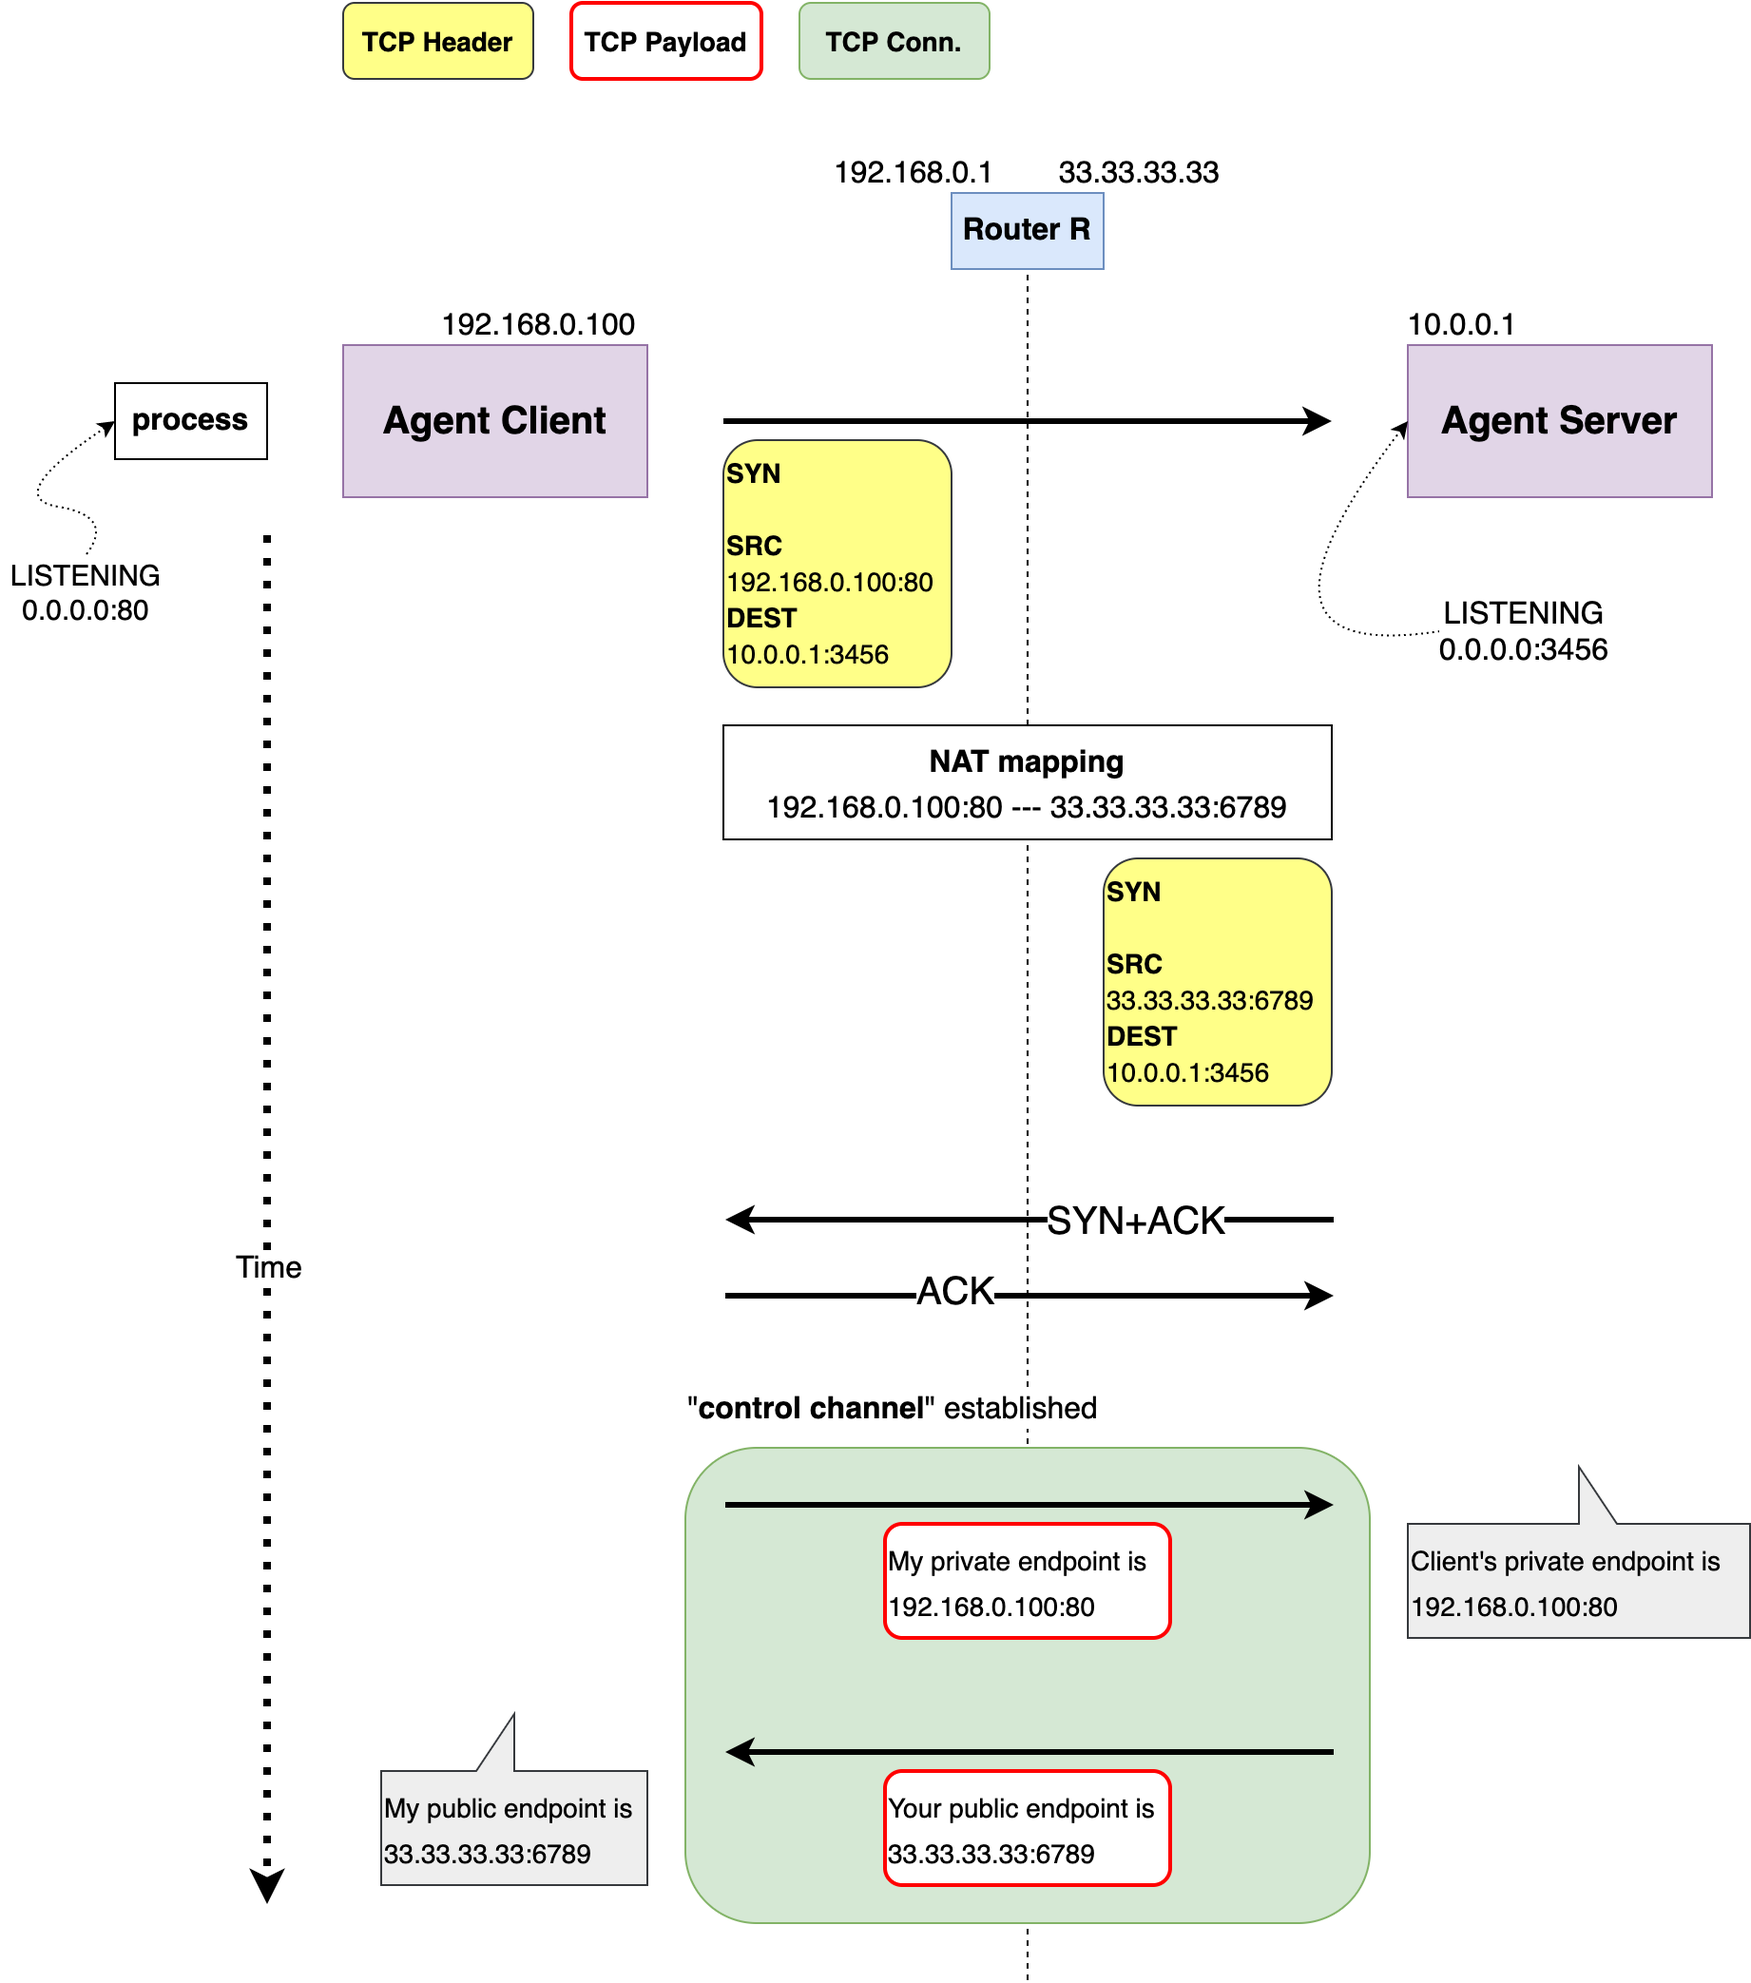
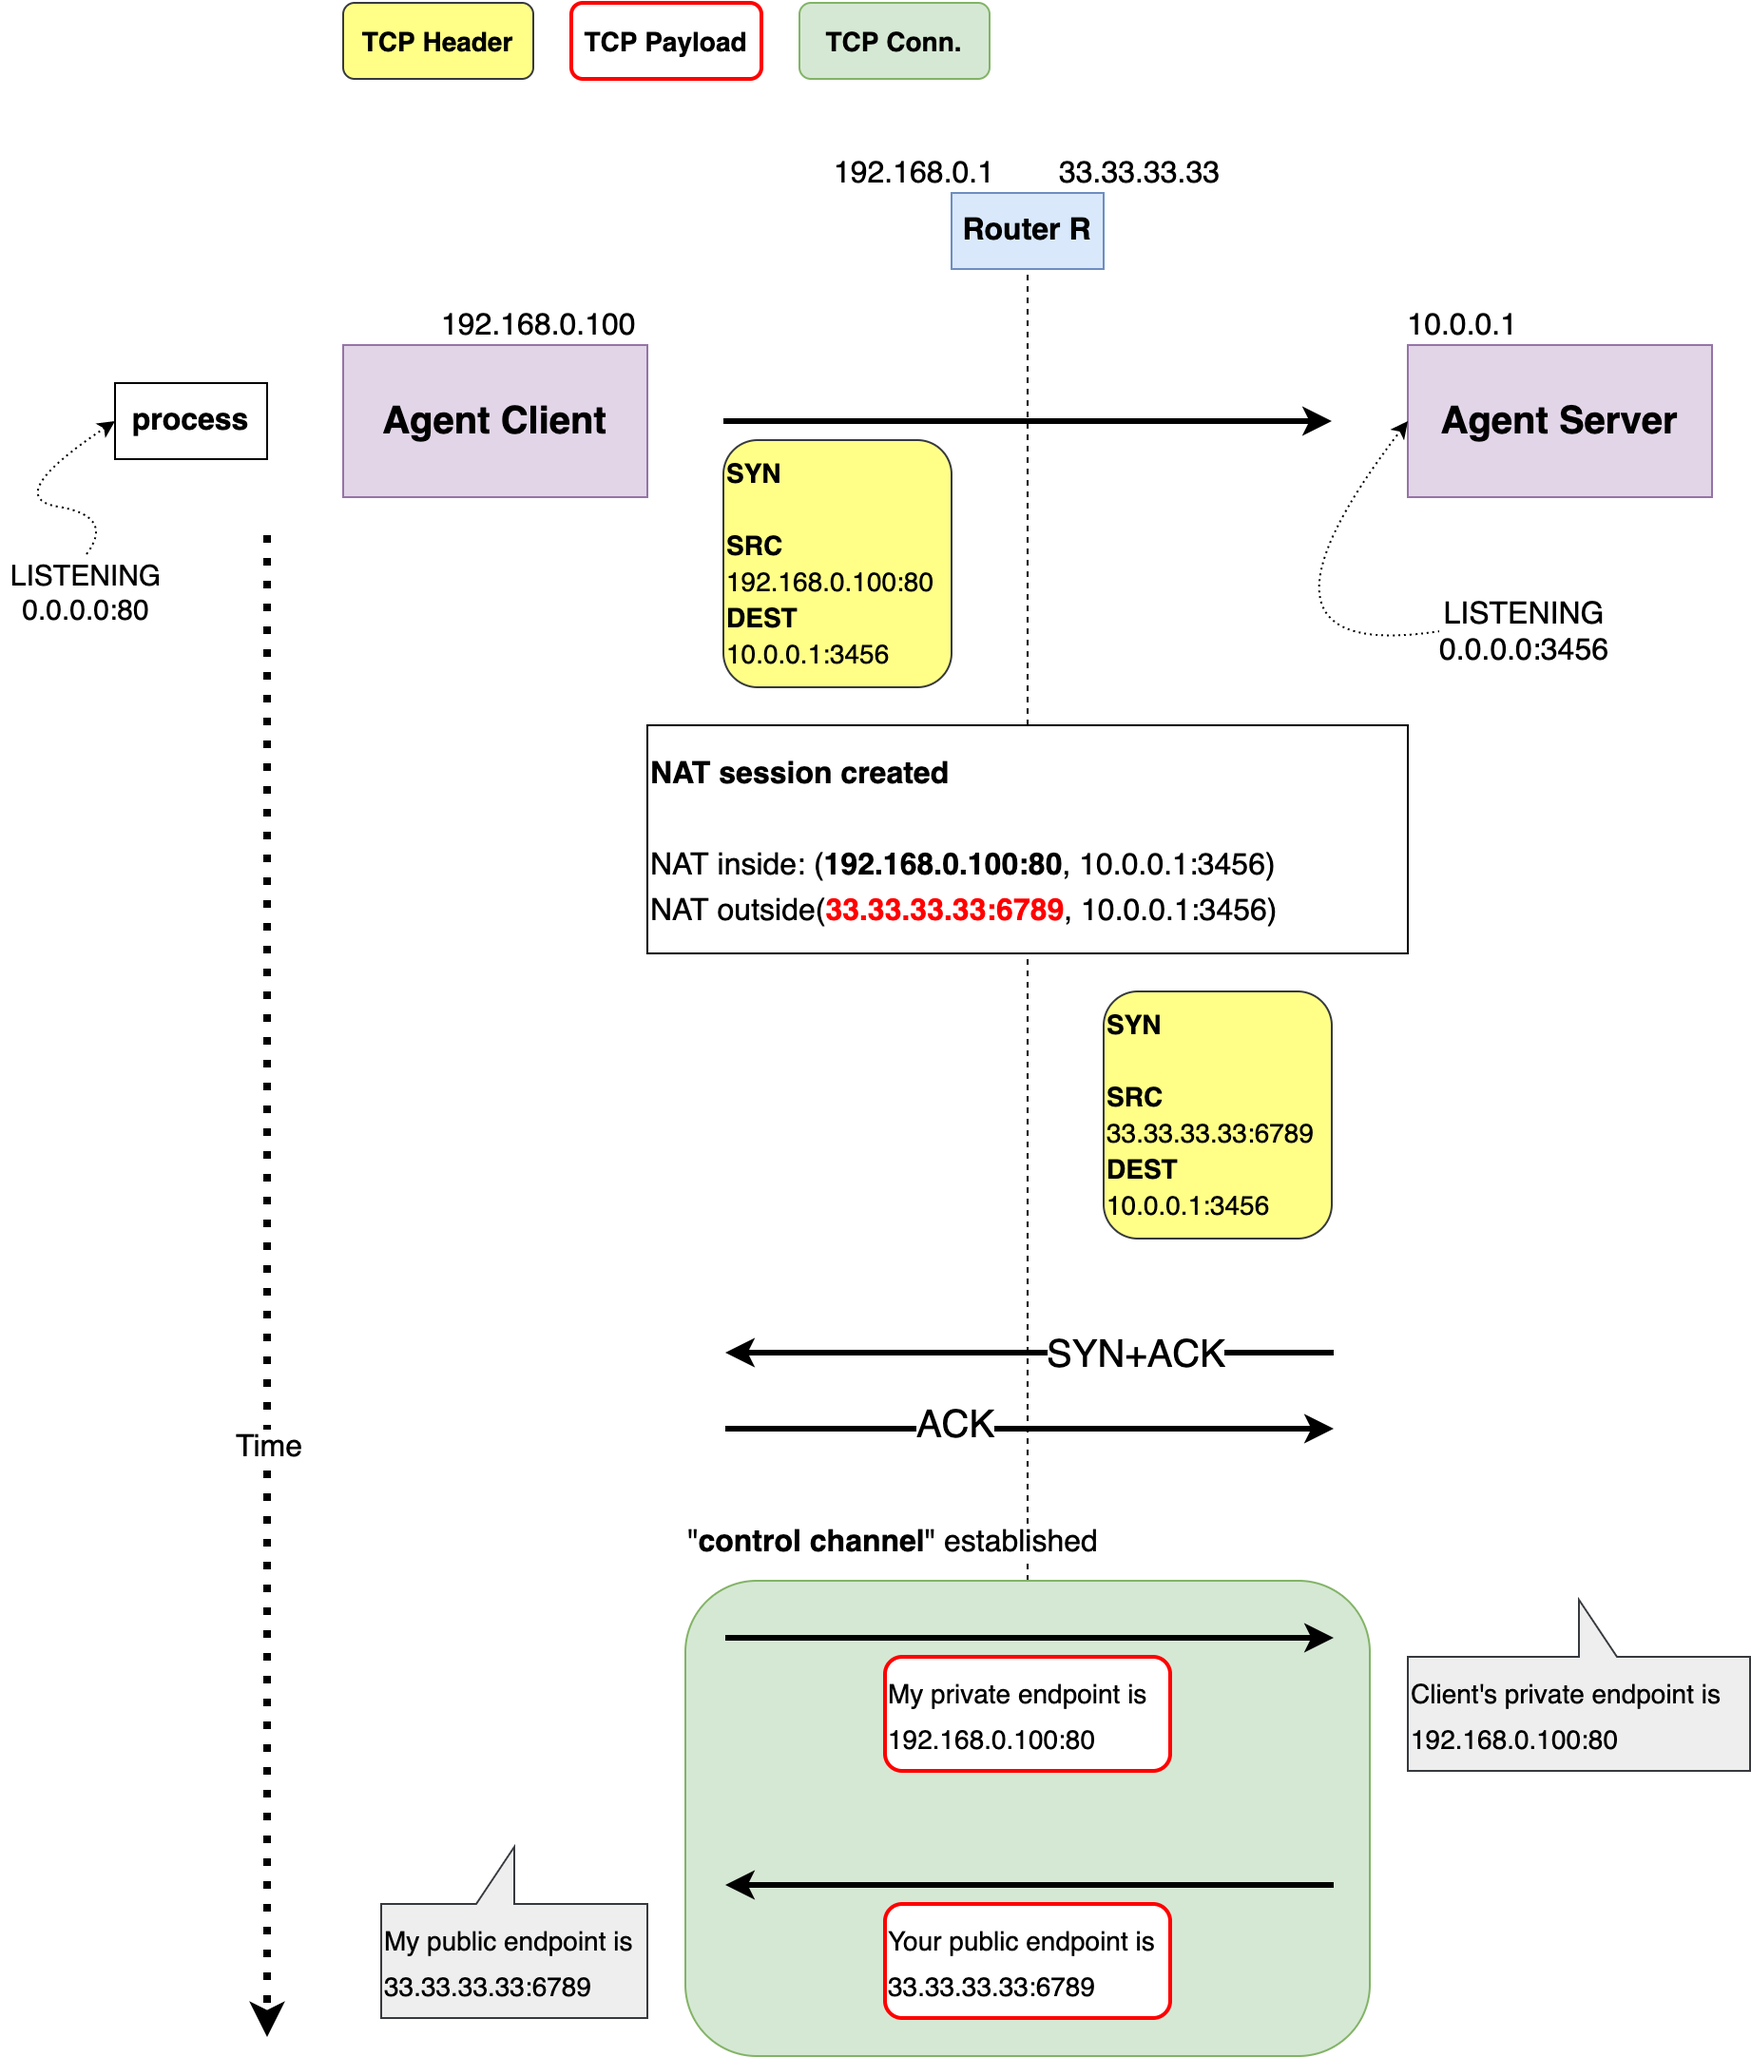
refinement, correction

diff --git a/docs/network-flow.md b/docs/network-flow.md
@@ -1,18 +1,29 @@
-# 네트워크 내부 흐름
-## 문제 상황
-<img src="./_images/given-situation.png" alt="given situation" width=600>
+> TCP Piercer가 네트워크와 어떻게 상호작용 하여 동작을 하는지 설명합니다.
 
-- Router R에서 동작하는 NAT/Firewall로 인해 Host A에서 외부 인터넷으로 (outbound) TCP request를 보낼 수 있지만
-그 반대 방향의 TCP Request는 차단됩니다.
-- 일반적인 라우터 설정입니다.
+# 예시 시나리오
+아래와 같은 네트워크 환경을 가정합니다.
+<img src="./_images/base-environment.png" alt="base network environment">
 
-## 목표 상태
-<img src="./_images/desired-result.png" alt="desired result" width=900>
+- Host A, Host B의 IP address 및 Router R의 internal/external IP address는 그림에 나온 대로 입니다.
+- Host A는 192.168.0.0/24 서브넷에 속합니다.
 
-- Agent Client와 Agent Server로 구성된 TCP Piercer는 외부 인터넷의 Host B가 보낸 inbound TCP request를 중개하여
-Host A의 프로세스와 Host B의 프로세스 간의 TCP connection을 수립시킵니다.
-- inbound TCP request로 수립된 TCP connection은 tunneling procotol을 수반하지 않습니다.
+여기에 TCP Piercer 시스템을 추가합니다.
+<img src="./_images/new-environment.png" alt="new environment involving TCP Piercer">
 
+- Agent Client는 Host A의 프로세스입니다.
+- Agent Server는 네트워크 장비 및 그 장비에서 동작하는 프로세스를 지칭합니다.
+- Agent Server는 Router R과 Internet 사이의 패킷 흐름을 통제할 수 있어야 합니다. (즉, 단절점)
+- Agent Server는 TCP Piercer 동작과 관련된 패킷에 대해서는 [게이트웨이][Wikipedia, Gateway] 역할을, 그 외에는 [브릿지][Wikipedia, Bridge] 역할을 수행합니다.
+
+위와 같은 환경에서 Host B가 Host A에게 TCP request를 보내면, TCP Piercer의 Agent Client와 Agent Server가 개입하여
+TCP 연결 수립을 성공시키는 과정을 설명합니다.
+
+<img src="./_images/intro2.png" alt="desired state">
+
+- 수립된 TCP 연결은 터널링 프로토콜을 수반하지 않습니다. TCP 연결 그 자체입니다.
+
+
+# TCP Piercer 동작
 ## 제어 채널 생성 및 초기화
 <img src="./_images/control-channel.png" alt="initialize control channel" width=800>
 
@@ -26,7 +37,7 @@ Host A의 프로세스와 Host B의 프로세스 간의 TCP connection을 수립
 
 
 ## Handshake 중개
-![encapsulated handshake](./_images/handshake1.png)
+<img src="./_images/handshake1.png" alt="encapsulated handshake">
 
 - 제어 채널이 초기화가 끝난 이후 TCP Piercer는 외부에서 Host A의 public endpoint로 오는 TCP request의 handshake를 중개합니다.
 - SYN segment를 수신 하면 자체적인 NAT을 수행하고
@@ -36,13 +47,13 @@ IP packet을 TCP payload에 담아 (Encapsulation) 제어 채널로 보냅니다
 - SYN+ACK segment 그리고 ACK segment에 대해서도 위와 비슷한 과정이 수행 됩니다.
 - 이렇게 Handshake 중개가 완료되면 Host A와 Host B는 TCP connection이 수립됐다고 판단하고 통신을 위한 소켓을 생성합니다.
 - _하지만_ 이 과정은 Router R이 전혀 개입되지 않은 상태에서 이루어졌기 때문에 Router R에 NAT session이 만들어지지 않았고
-따라서 두 Host의 소켓 간 통신은 정상적으로 이루어지지 않습니다.
+따라서 두 호스트의 소켓 간 통신은 정상적으로 이루어지지 않습니다.
 
 ## Handshake "끼워넣기"
 <img src="./_images/handshake2.png" alt="faking handshake." width=800>
 
 - Router R에 NAT session을 만들어 주기 위해서 Agent Client와 Server 사이에 Handshake를 수행합니다.
-- 정확한 NAT session 생성을 유도하기 위해서, Handshake를 수행하는 TCP segment들은 아래의 조건을 만족해야 합니다:
+- 두 호스트 간 연결을 정확히 반영하는 NAT session 생성을 유도하기 위해서, Handshake를 수행하는 TCP segment들은 아래의 조건을 만족해야 합니다:
   1. Agent Client 측 endpoint는 반드시 Host A 소켓의 (IP, Port) 쌍과 일치해야함
   1. Agent Server 측 endpoint는 반드시 Host B 소켓의 (IP, Port) 쌍과 일치해야함
   1. 양 측 ISN(Initial Sequence Number) 모두 Host A, B 간 Handshake 당시 생성된 ISN들과 일치해야함
@@ -50,3 +61,7 @@ IP packet을 TCP payload에 담아 (Encapsulation) 제어 채널로 보냅니다
 - NAT session이 만들어지면  Router R은 Host A, B 사이에서 오가는 TCP segment들을 정상 패킷으로 간주합니다.
 - 이 때부터 이 TCP connection은 TCP Piercer의 통제에서 벗어납니다. 즉, 오직 양단(Host A, Host B)의 TCP/IP stack이 관리합니다.
   - 단, 다른 호스트에서 오는 TCP request를 처리할 수 있어야 하기 때문에 제어 채널은 그대로 남아있습니다.
+
+
+[Wikipedia, Gateway]: https://en.wikipedia.org/wiki/Gateway_(telecommunications)
+[Wikipedia, Bridge]: https://en.wikipedia.org/wiki/Bridging_(networking)
